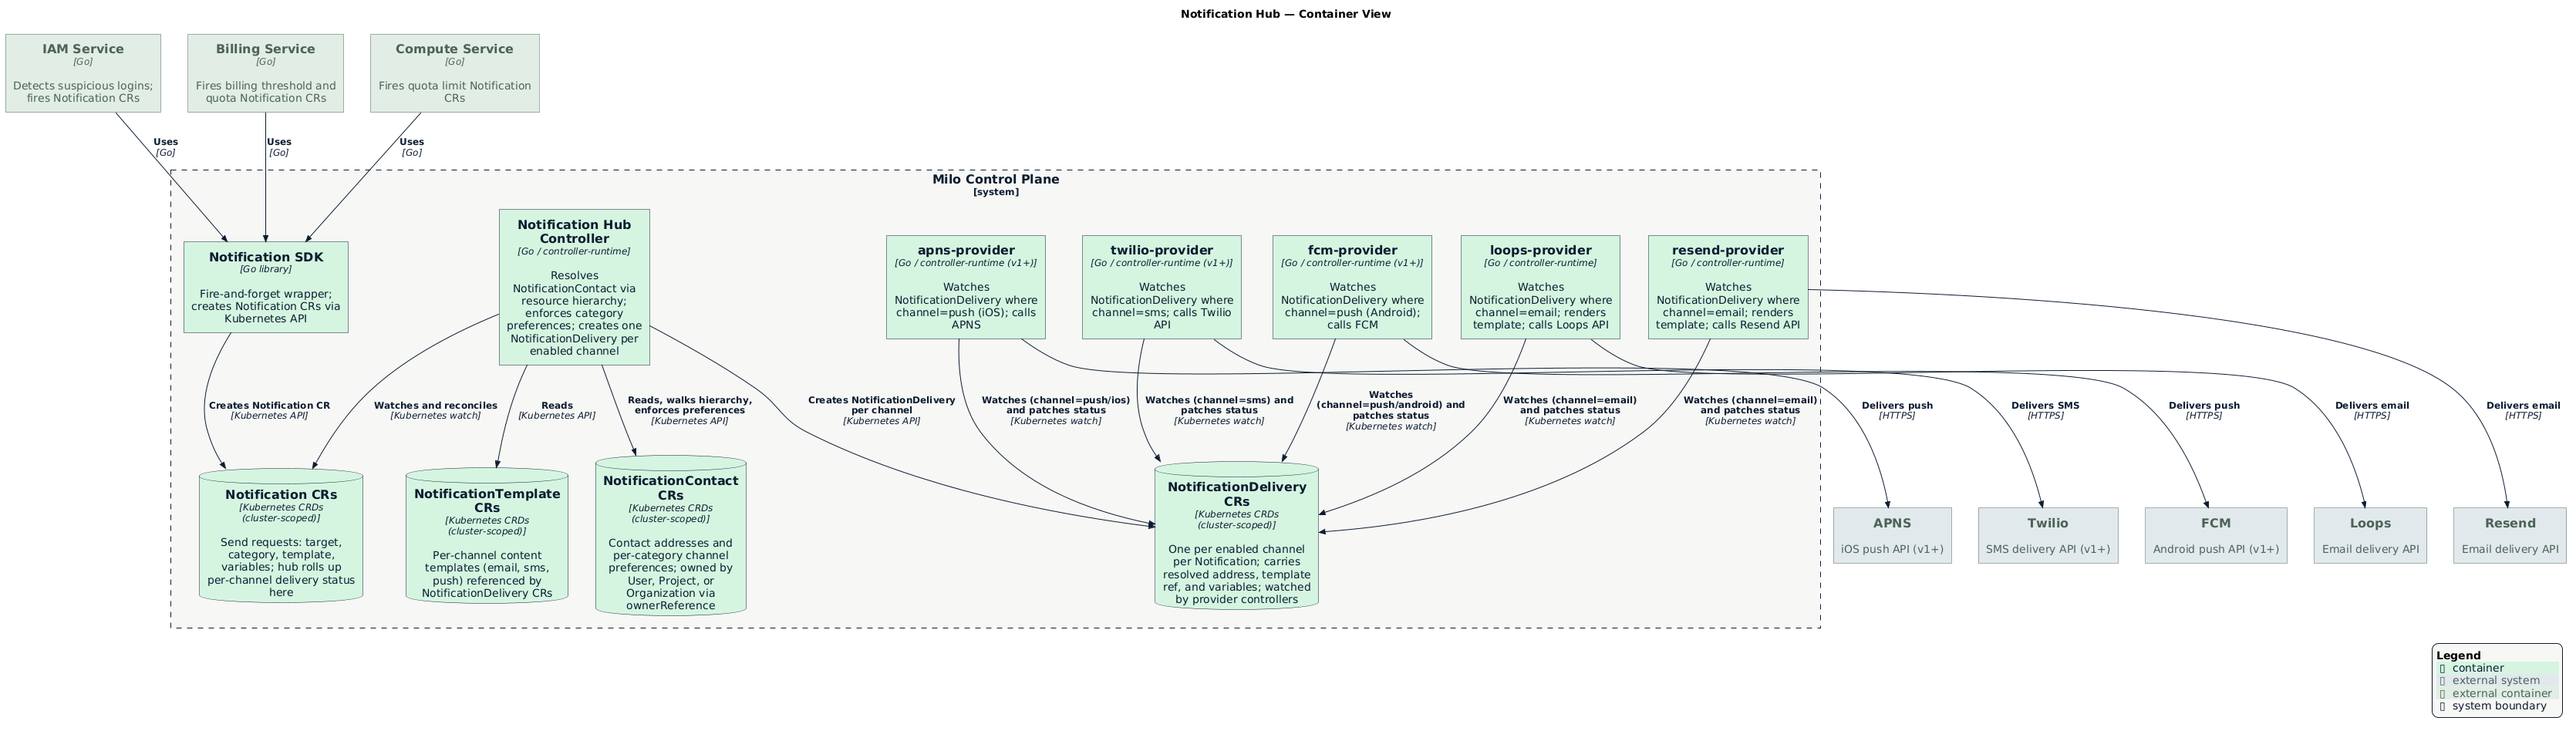
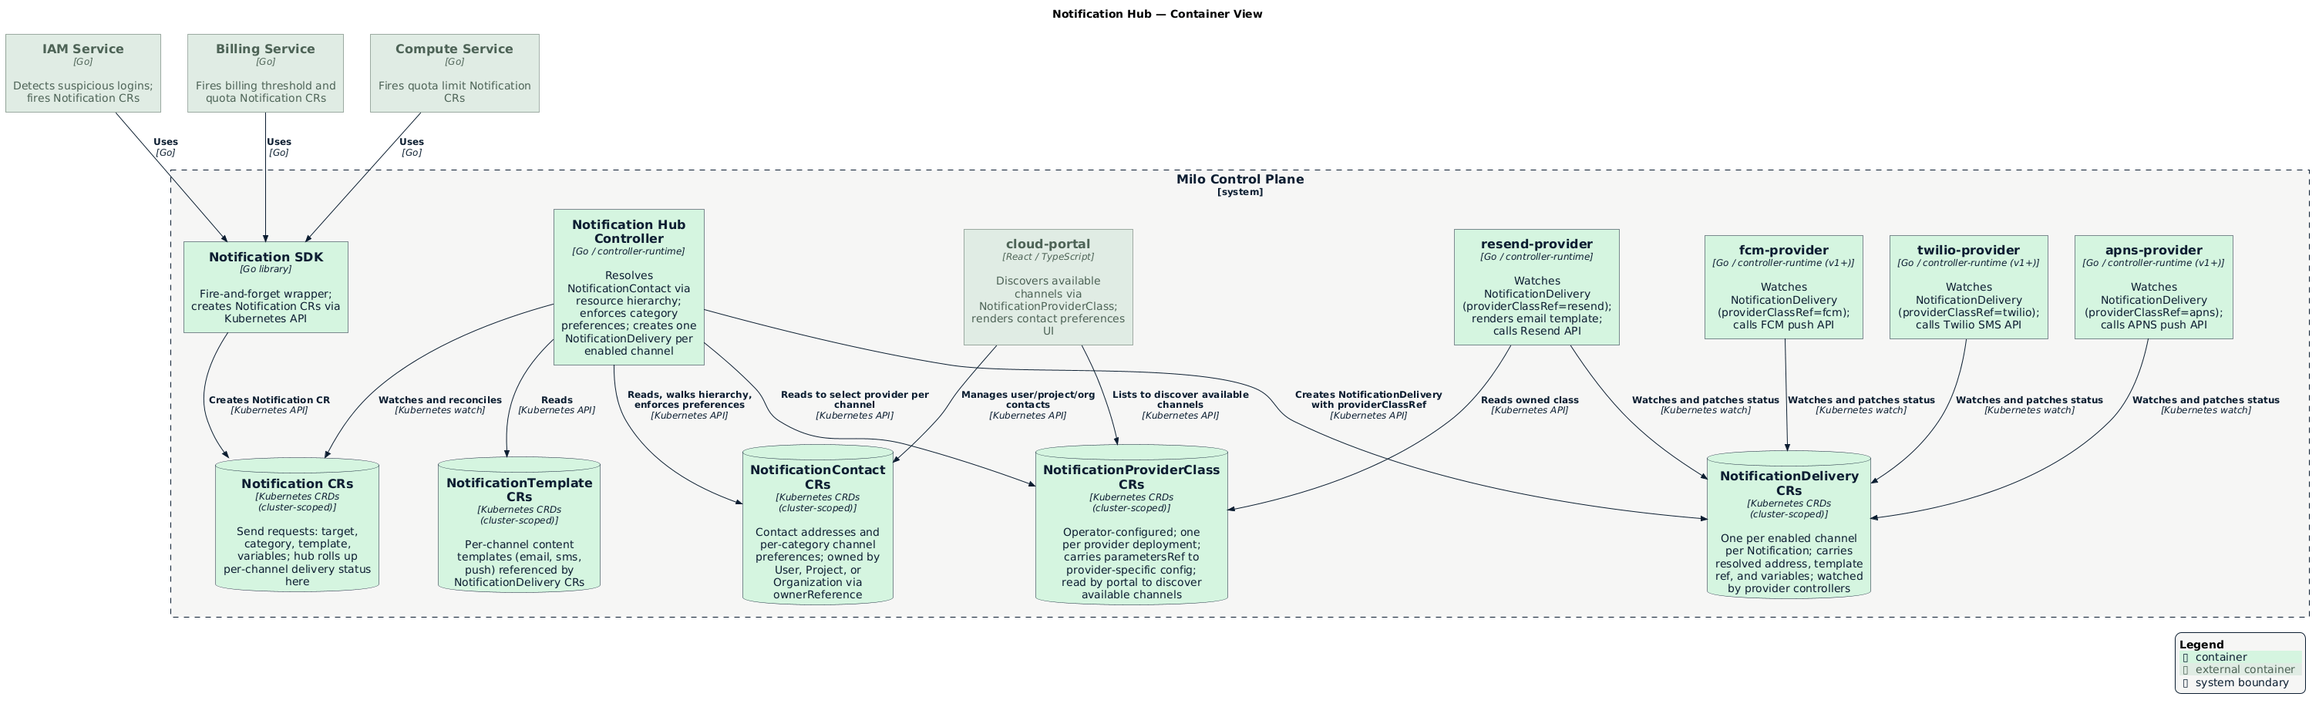
feat: introduce NotificationProviderClass for dynamic provider configuration and delivery routing

diff --git a/docs/enhancements/notification-hub.md b/docs/enhancements/notification-hub.md
@@ -25,6 +25,7 @@ latest-milestone: "v0"
   - [NotificationTemplate Resource](#notificationtemplate-resource)
   - [Contact Resolution and Hierarchy](#contact-resolution-and-hierarchy)
   - [Category-Based Routing and Preference Enforcement](#category-based-routing-and-preference-enforcement)
+  - [NotificationProviderClass Resource](#notificationproviderclass-resource)
   - [NotificationDelivery Resource](#notificationdelivery-resource)
   - [Provider Controller Pattern](#provider-controller-pattern)
   - [Notification SDK](#notification-sdk)
@@ -163,12 +164,24 @@ blocks — email subject and body, SMS body, push title and body. A single
 template covers all channels; provider controllers select the block matching the
 channel they are delivering on.
 
+**`NotificationProviderClass`** is a cluster-scoped operator-configured resource
+that registers a delivery provider for a specific channel. It names the channel
+(`email`, `sms`, `push`, `inApp`), the provider identifier, and carries a
+`spec.parametersRef` pointing to a provider-owned configuration resource (e.g.
+`ResendProviderConfig`). The hub reads `NotificationProviderClass` to select the
+right provider when creating a `NotificationDelivery`; the portal lists them to
+discover which channels are available to users. This is the same
+`parametersRef` extensibility pattern used by `PaymentMethodClass` in billing —
+adding a new provider never requires changes to the hub or to any core CRD
+schema.
+
 **`NotificationDelivery`** is created by the hub — one per enabled channel per
-`Notification`. It carries the resolved contact address for that channel, the
-template reference, and the variables. Provider controllers watch
-`NotificationDelivery` resources filtered by `spec.channel` and are responsible
-for calling the external backend and updating delivery status. Adding a new
-channel provider requires only a new controller repo — the hub never changes.
+`Notification`. It carries the resolved contact address, the template reference,
+the variables, and a `spec.providerClassRef` that pins it to the
+`NotificationProviderClass` selected for delivery. Provider controllers watch
+`NotificationDelivery` resources whose `spec.providerClassRef` points to a class
+they own, so two email providers (Resend and Loops) can coexist without
+conflicting — each picks up only the deliveries assigned to it.
 
 ### How It Works
 
@@ -248,8 +261,10 @@ For `security`, enforcement is bypassed.
 **4. Hub controller creates a NotificationDelivery per channel.**
 
 For each channel for which an address exists and delivery is not suppressed, the
-hub creates a `NotificationDelivery` as a child of the `Notification`. It
-embeds the resolved contact address so provider controllers never need to read
+hub selects the default `NotificationProviderClass` for that channel (the one
+annotated `notification.miloapis.com/is-default-class: "true"`) and creates a
+`NotificationDelivery` as a child of the `Notification`. The resolved contact
+address is embedded so provider controllers never need to read
 `NotificationContact` directly:
 
 ```yaml
@@ -499,10 +514,11 @@ different category assignments are a v1+ capability.
 
 | Resource | Scope | Owner | Purpose |
 |---|---|---|---|
+| `NotificationProviderClass` | Cluster | Operator | Registers a delivery provider for a channel; carries `parametersRef` to provider-specific config |
 | `NotificationContact` | Cluster | Notification Hub | Contact address and per-category channel preferences at user, project, or org level |
 | `Notification` | Cluster | Notification Hub | Send request: target, category, template, variables |
 | `NotificationTemplate` | Cluster | Notification Hub | Per-channel content templates referenced by deliveries |
-| `NotificationDelivery` | Cluster | Notification Hub | One per enabled channel per Notification; carries resolved address and template for provider controllers |
+| `NotificationDelivery` | Cluster | Notification Hub | One per enabled channel per Notification; carries resolved address, template, and providerClassRef |
 
 Future channel resources (`SMS`, `SMSTemplate`, `Push`, `PushTemplate`,
 `PushDevice`, `InAppNotification`) follow the same pattern and are out of scope
@@ -853,6 +869,91 @@ The controller re-evaluates at reconcile time. The webhook result is not
 authoritative for the final delivery decision — it is an optimization to avoid
 enqueuing work that will immediately suppress.
 
+### NotificationProviderClass Resource
+
+`NotificationProviderClass` is cluster-scoped and created by platform operators.
+It registers a delivery provider for a specific channel, names the provider, and
+carries a `spec.parametersRef` pointing to a provider-owned configuration
+resource that holds provider-specific settings (API keys, sender addresses, app
+bundle IDs). `NotificationProviderClass` itself has no provider-specific fields
+— all provider config lives in the referenced resource. This follows the same
+`parametersRef` extensibility pattern as `PaymentMethodClass` in billing and the
+Kubernetes Gateway API's `GatewayClass`.
+
+A `NotificationProviderClass` is designated as the default for its channel by
+the annotation `notification.miloapis.com/is-default-class: "true"`. The hub
+selects the default class for a channel when creating `NotificationDelivery`
+unless a specific class is configured. Only one class may hold the default
+annotation per channel.
+
+**Spec fields:**
+
+| Field | Type | Required | Description |
+|---|---|---|---|
+| `channel` | enum | Yes | The delivery channel this class handles. One of `email`, `sms`, `push`, `inApp`. |
+| `provider` | string | Yes | Provider identifier (e.g. `resend`, `loops`, `twilio`, `apns`, `fcm`). Matched by provider controllers to self-select. |
+| `parametersRef.group` | string | Yes | API group of the provider-specific configuration resource. |
+| `parametersRef.kind` | string | Yes | Kind of the provider-specific configuration resource. |
+| `parametersRef.name` | string | Yes | Name of the provider-specific configuration resource. |
+
+**Example — Resend as the default email provider:**
+
+```yaml
+apiVersion: notification.miloapis.com/v1alpha1
+kind: NotificationProviderClass
+metadata:
+  name: resend-default
+  annotations:
+    notification.miloapis.com/is-default-class: "true"
+spec:
+  channel: email
+  provider: resend
+  parametersRef:
+    group: resend.notification.miloapis.com
+    kind: ResendProviderConfig
+    name: default
+```
+
+**Example — Loops as a secondary email provider:**
+
+```yaml
+apiVersion: notification.miloapis.com/v1alpha1
+kind: NotificationProviderClass
+metadata:
+  name: loops-marketing
+spec:
+  channel: email
+  provider: loops
+  parametersRef:
+    group: loops.notification.miloapis.com
+    kind: LoopsProviderConfig
+    name: default
+```
+
+**Example — Twilio for SMS (v1+):**
+
+```yaml
+apiVersion: notification.miloapis.com/v1alpha1
+kind: NotificationProviderClass
+metadata:
+  name: twilio-default
+  annotations:
+    notification.miloapis.com/is-default-class: "true"
+spec:
+  channel: sms
+  provider: twilio
+  parametersRef:
+    group: twilio.notification.miloapis.com
+    kind: TwilioProviderConfig
+    name: default
+```
+
+The portal lists all `NotificationProviderClass` resources to discover which
+channels are available on the platform. It follows `parametersRef` to read
+provider-specific configuration it needs to render channel-specific UI (for
+example, a push provider config might expose app bundle IDs for device
+registration flows).
+
 ### NotificationDelivery Resource
 
 `NotificationDelivery` is cluster-scoped and created by the hub — one per
@@ -871,6 +972,7 @@ for the same lifetime as their parent.
 | Field | Type | Description |
 |---|---|---|
 | `channel` | enum | Channel type: `email`, `sms`, `push`, `inApp` |
+| `providerClassRef.name` | string | Name of the `NotificationProviderClass` selected for this delivery. Provider controllers filter on this field to self-select. |
 | `resolvedAddress` | string | Contact address for this channel resolved from `NotificationContact` (email address, E.164 phone number, or push device token) |
 | `templateRef.name` | string | Name of the cluster-scoped `NotificationTemplate` to render |
 | `variables` | map[string]string | Variables interpolated into the template at delivery time |
@@ -901,6 +1003,8 @@ metadata:
       blockOwnerDeletion: false
 spec:
   channel: email
+  providerClassRef:
+    name: resend-default
   resolvedAddress: "jane.smith@example.com"
   templateRef:
     name: suspicious-login-alert
@@ -926,36 +1030,42 @@ new provider or channel is added.
 
 **Responsibilities of a provider controller:**
 
-1. Watch `NotificationDelivery` resources where `spec.channel` matches the
-   channel the controller handles (e.g. `email`, `sms`).
+1. Watch `NotificationDelivery` resources where `spec.providerClassRef.name`
+   matches a `NotificationProviderClass` the controller owns (identified by
+   `spec.provider`). This is how two email providers coexist — `resend-provider`
+   picks up deliveries with `providerClassRef: resend-default`; `loops-provider`
+   picks up those with `providerClassRef: loops-marketing`.
 2. Read `spec.templateRef` and render the matching channel block from the
    `NotificationTemplate` using `spec.variables`.
 3. Call the external backend API using `spec.resolvedAddress` as the
-   destination. Provider credentials are held as environment variables or mounted
-   `Secret` references — never on the CRD.
+   destination. Provider credentials are read from the resource referenced by
+   the `NotificationProviderClass.spec.parametersRef` — never hardcoded or
+   placed on the CRD itself.
 4. Patch `NotificationDelivery` status with `phase: Delivered` or
    `phase: Failed`, a provider message ID, and a delivery timestamp.
 
 **Adding a new provider — Postmark for email:**
 
-1. A new `postmark-provider` controller repo.
-2. A kustomization deploying the controller with its Postmark credentials.
-3. Zero changes to the hub, `Notification`, `NotificationDelivery`, or
+1. A `PostmarkProviderConfig` CRD and a `postmark-provider` controller repo.
+2. A `NotificationProviderConfig` for `channel: email, provider: postmark`
+   with `parametersRef` pointing to a `PostmarkProviderConfig`.
+3. A kustomization deploying the controller and its credentials.
+4. Zero changes to the hub, `Notification`, `NotificationDelivery`, or
    `NotificationTemplate`.
 
 **Adding a new channel — Twilio SMS (v1+):**
 
-1. A new `twilio-provider` controller repo that watches `NotificationDelivery`
-   where `spec.channel == "sms"`.
-2. A kustomization with the Twilio credentials.
-3. Zero changes to the hub. The hub already creates `NotificationDelivery`
-   resources for any channel for which the resolved contact has an address — once
-   contacts carry `spec.phone`, SMS deliveries appear automatically.
+1. A `TwilioProviderConfig` CRD and a `twilio-provider` controller repo.
+2. A `NotificationProviderClass` for `channel: sms, provider: twilio`.
+3. A kustomization with the Twilio credentials.
+4. Zero changes to the hub. Once a `NotificationProviderClass` exists for `sms`
+   and contacts carry `spec.phone`, the hub automatically creates
+   `NotificationDelivery` resources for the SMS channel.
 
 **Reference implementations:**
 
 The `resend-provider` and `loops-provider` are the v0 reference implementations.
-Both watch `NotificationDelivery` where `spec.channel == "email"` and deliver
+Both watch `NotificationDelivery` filtered by `spec.providerClassRef` and deliver
 via the Resend and Loops APIs respectively. They are the template for all future
 provider controller implementations.
 
@@ -1059,15 +1169,23 @@ resource can fire a notification.
 The portal exposes a "Notifications" section in user account settings that
 allows users to:
 
-1. **View and update their `NotificationContact`** — email address (and in v1+
-   phone number) displayed and editable.
-2. **Manage per-category channel preferences** — a matrix of category rows and
-   channel columns with checkboxes. The `security` row is displayed as
-   non-editable with a tooltip explaining that security notifications are always
-   delivered.
-3. **View recent notifications** — a list of `Notification` resources across
-   all namespaces where `spec.target.userRef.name` matches the authenticated
-   user, showing category, template name, status, and timestamp.
+1. **Discover available channels** — the portal lists all `NotificationProviderClass`
+   resources to determine which channels (`email`, `sms`, `push`, `inApp`) are
+   active on the platform. Only channels with at least one deployed
+   `NotificationProviderClass` are shown. For each channel, the portal follows
+   `spec.parametersRef` to read provider-specific config it needs for UI
+   rendering (e.g. a push provider config exposes app bundle IDs for device
+   registration).
+2. **View and update their `NotificationContact`** — contact fields are rendered
+   per available channel. An email field is shown only if an email
+   `NotificationProviderClass` exists; a phone field only if an SMS class exists.
+3. **Manage per-category channel preferences** — a matrix of category rows and
+   channel columns with checkboxes, driven by the set of available channels
+   discovered from `NotificationProviderClass`. The `security` row is
+   non-editable.
+4. **View recent notifications** — a list of `Notification` resources where
+   `spec.target.userRef.name` matches the authenticated user, showing category,
+   template name, status, and timestamp.
 
 Project-owner and organization-owner UX for managing project- and org-level
 contacts follows the same pattern in the respective project and organization
@@ -1082,10 +1200,14 @@ settings sections.
 | Hub controller | `Notification` | Full (owns the CRD) |
 | Hub controller | `NotificationContact` | Read |
 | Hub controller | `NotificationTemplate` | Read |
+| Hub controller | `NotificationProviderClass` | Read |
 | Hub controller | `NotificationDelivery` | Full (owns the CRD) |
+| Provider controllers | `NotificationProviderClass` | Read |
 | Provider controllers | `NotificationDelivery` | Read, Watch |
 | Provider controllers | `NotificationDelivery` status | Patch |
 | Provider controllers | `NotificationTemplate` | Read |
+| Provider controllers | Provider-specific config CRDs | Full |
+| Portal | `NotificationProviderClass` | Read |
 | Portal | `NotificationContact` | Create, Read, Update, Delete |
 | Portal | `Notification` | Read |
 | Portal | `NotificationDelivery` | Read |
